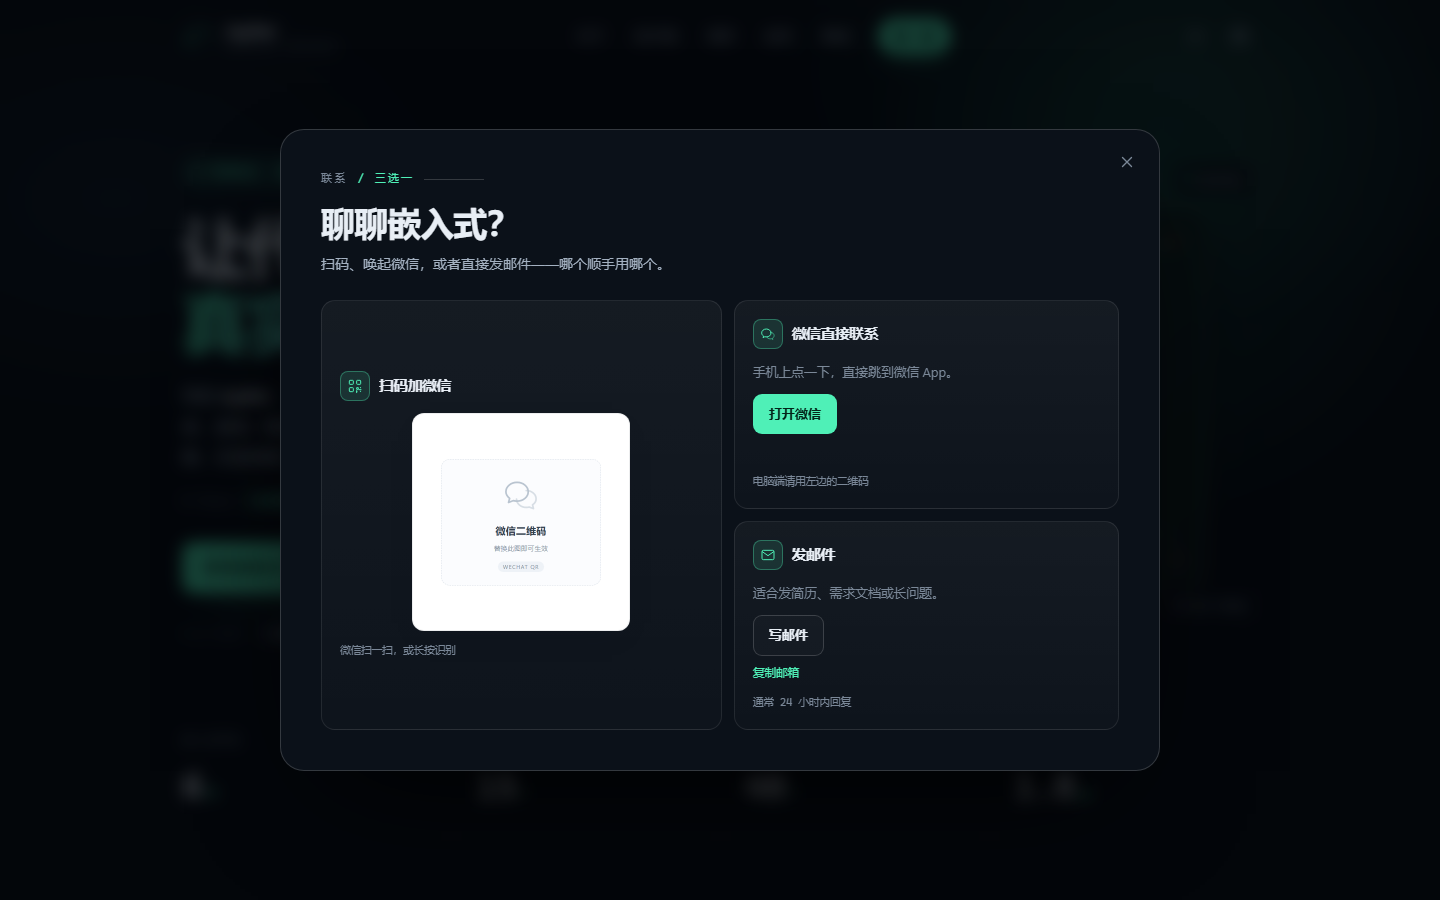
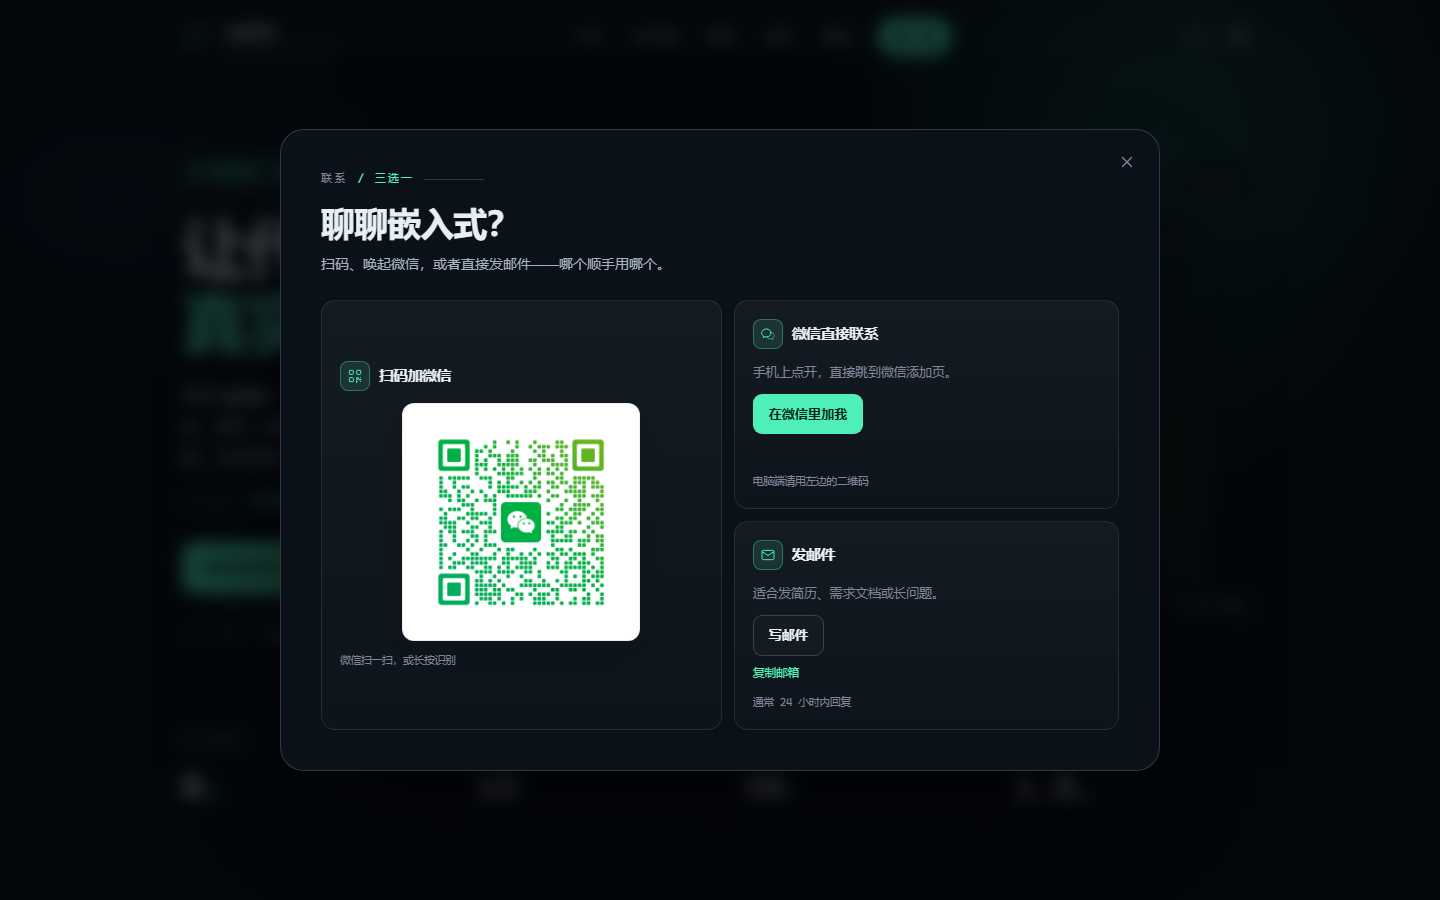
feat: 接入真实微信二维码，直接联系改为微信添加页链接

Changed region(s): [[0.2188, 0.4044, 0.4688, 0.7467], [0.5312, 0.4044, 0.6562, 0.4978]]

diff --git a/assets/css/style.css b/assets/css/style.css
@@ -1349,7 +1349,7 @@ code { font-family: var(--font-mono); font-size: 0.92em; }
   box-shadow: 0 10px 26px -18px rgba(9, 20, 32, 0.55);
 }
 .qr img {
-  width: 200px;
+  width: 220px;
   max-width: 100%;
   height: auto;
   border-radius: 6px;
@@ -1503,7 +1503,7 @@ body.is-locked { overflow: hidden; }
   .contact-option--qr .contact-option__head { justify-content: center; }
   .contact-option--qr .contact-option__note { margin-top: 0; }
   .qr { padding: 8px; }
-  .qr img { width: 150px; max-width: none; }
+  .qr img { width: 160px; max-width: none; }
   .contact-option__text { font-size: 12px; }
   .contact-option .btn--sm {
     align-self: stretch;

diff --git a/index.html b/index.html
@@ -770,8 +770,8 @@
           </span>
           <h3>微信直接联系</h3>
         </header>
-        <p class="contact-option__text">手机上点一下，直接跳到微信 App。</p>
-        <a class="btn btn--primary btn--sm" id="wechatApp" href="weixin://">打开微信</a>
+        <p class="contact-option__text">手机上点开，直接跳到微信添加页。</p>
+        <a class="btn btn--primary btn--sm" id="wechatApp" href="https://u.wechat.com/EO16lpH7NpmPOw4R2ZEisTQ?s=4" target="_blank" rel="noopener">在微信里加我</a>
         <p class="contact-option__note">电脑端请用左边的二维码</p>
       </section>
 

diff --git a/assets/js/main.js b/assets/js/main.js
@@ -442,7 +442,7 @@
   if (wechatApp) {
     wechatApp.addEventListener('click', function () {
       var mobile = /Android|iPhone|iPad|iPod|HarmonyOS|Mobile/i.test(navigator.userAgent);
-      showToast(mobile ? '正在唤起微信…' : '已尝试唤起微信；没反应就用二维码或邮件');
+      showToast(mobile ? '正在跳转微信…' : '电脑端请扫码添加');
     });
   }
 })();

diff --git a/README.md b/README.md
@@ -41,7 +41,7 @@ python -m http.server 8000
 │   ├── js/main.js          # 主题记忆、滚动显现、数字滚动、打字机、复制邮箱
 │   └── img/
 │       ├── favicon.svg     # 站点图标
-│       ├── wechat-qr.png   # 微信二维码（当前是占位图，替换成你的）
+│       ├── wechat-qr.png   # 微信二维码（768×768，替换时保持同名）
 │       └── og-cover.png    # 社交分享封面（1200×630）
 ├── robots.txt
 ├── sitemap.xml
@@ -86,19 +86,22 @@ python -m http.server 8000
 默认使用系统字体（Inter / PingFang SC / Microsoft YaHei），不请求外链。
 想用自定义字体，把字体文件放进 `assets/fonts/`，在 `style.css` 里加 `@font-face` 并改 `--font-sans` 即可。
 
-### 换微信二维码
+### 微信二维码 / 添加链接
 
-「聊一聊」点开的是三选一面板：**扫码加微信 / 唤起微信 / 发邮件**。
+「聊一聊」点开的是三选一面板：**扫码加微信 / 在微信里加我 / 发邮件**。
 
-二维码目前是一张占位图，换成你自己的：
+- 二维码：`assets/img/wechat-qr.png`（已从「二维码名片」截图里裁出，保留白色静区，768×768）
+- 添加链接：`index.html` 里 `#wechatApp` 的 `href`，也就是这张二维码解码出来的 `https://u.wechat.com/...`
 
-1. 手机微信 →「我」→ 点自己的头像 →「二维码名片」，截图或保存
-2. 存成 `assets/img/wechat-qr.png`，**同名覆盖**（建议正方形，400×400 以上）
-3. 提交推送即可，代码不用改
+两者其实是同一条二维码的两个入口。**如果你在微信里重置了二维码，两个都要换**：
 
-说明：个人微信没有开放「网页直接跳到某个人的聊天窗口」的接口，
-所以「微信直接联系」用的是 `weixin://`，只能在手机上唤起微信 App，无法定位到具体会话；
-桌面端请以二维码为主。如果以后你有企业微信客服链接，可以直接替换那个按钮的 `href`，那个能直达对话。
+1. 手机微信 →「我」→ 点头像 →「二维码名片」，保存
+2. 覆盖 `assets/img/wechat-qr.png`
+3. 用手机相机或扫码工具扫一下新二维码，把解出来的链接替换到 `#wechatApp` 的 `href`
+
+说明：个人微信没有开放「网页直接跳到某个人的会话窗口」的接口。
+`u.wechat.com` 是微信官方的加好友跳板，手机上会尝试唤起微信，电脑端会跳到微信官网，
+所以桌面端请以二维码为主。如果以后你有企业微信客服链接，可以直接替换那个按钮的 `href`，那个能直达对话。
 
 ## 部署
 
